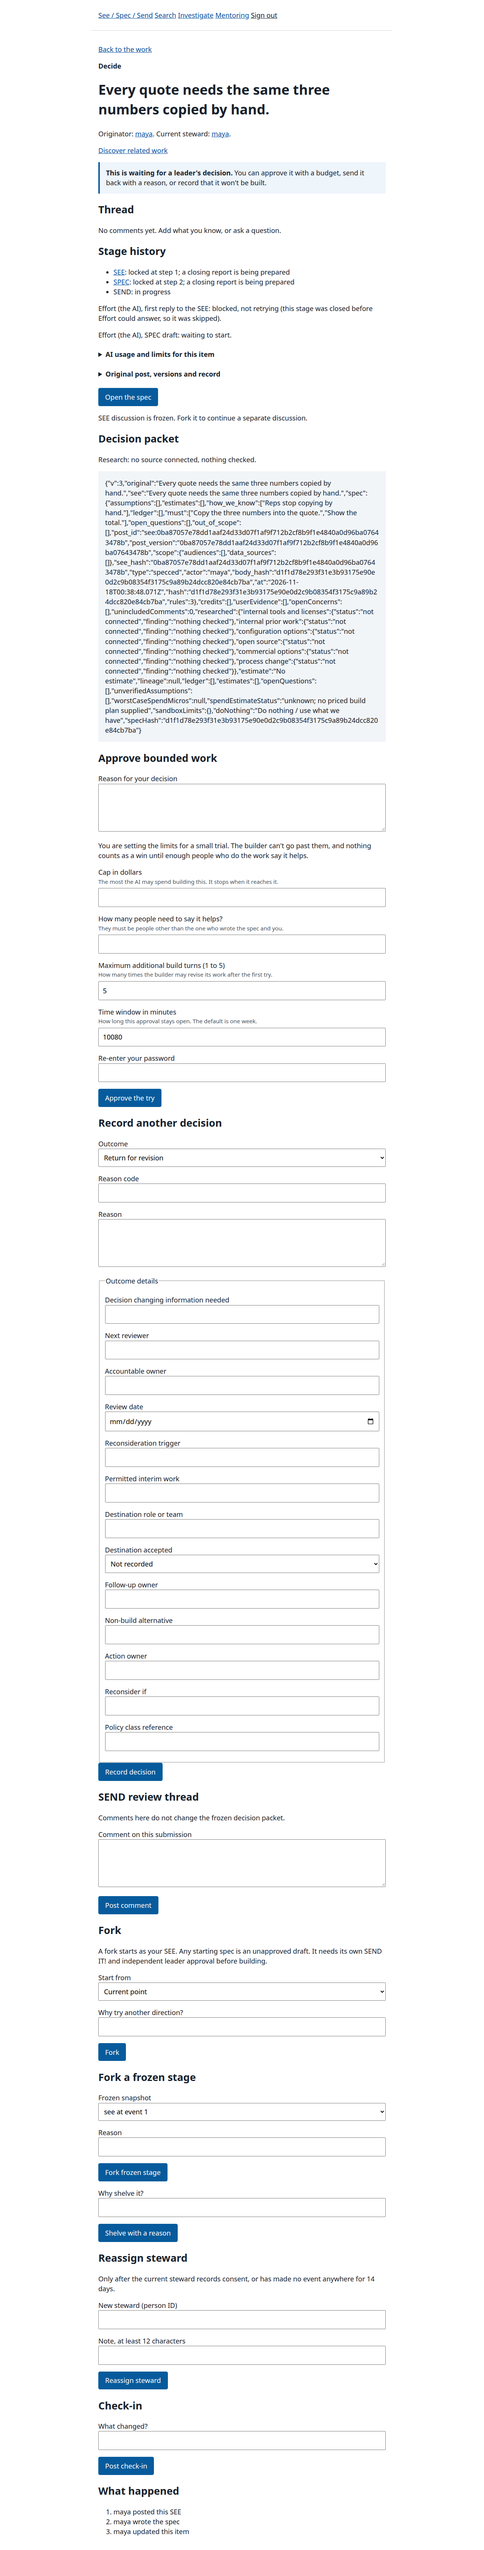
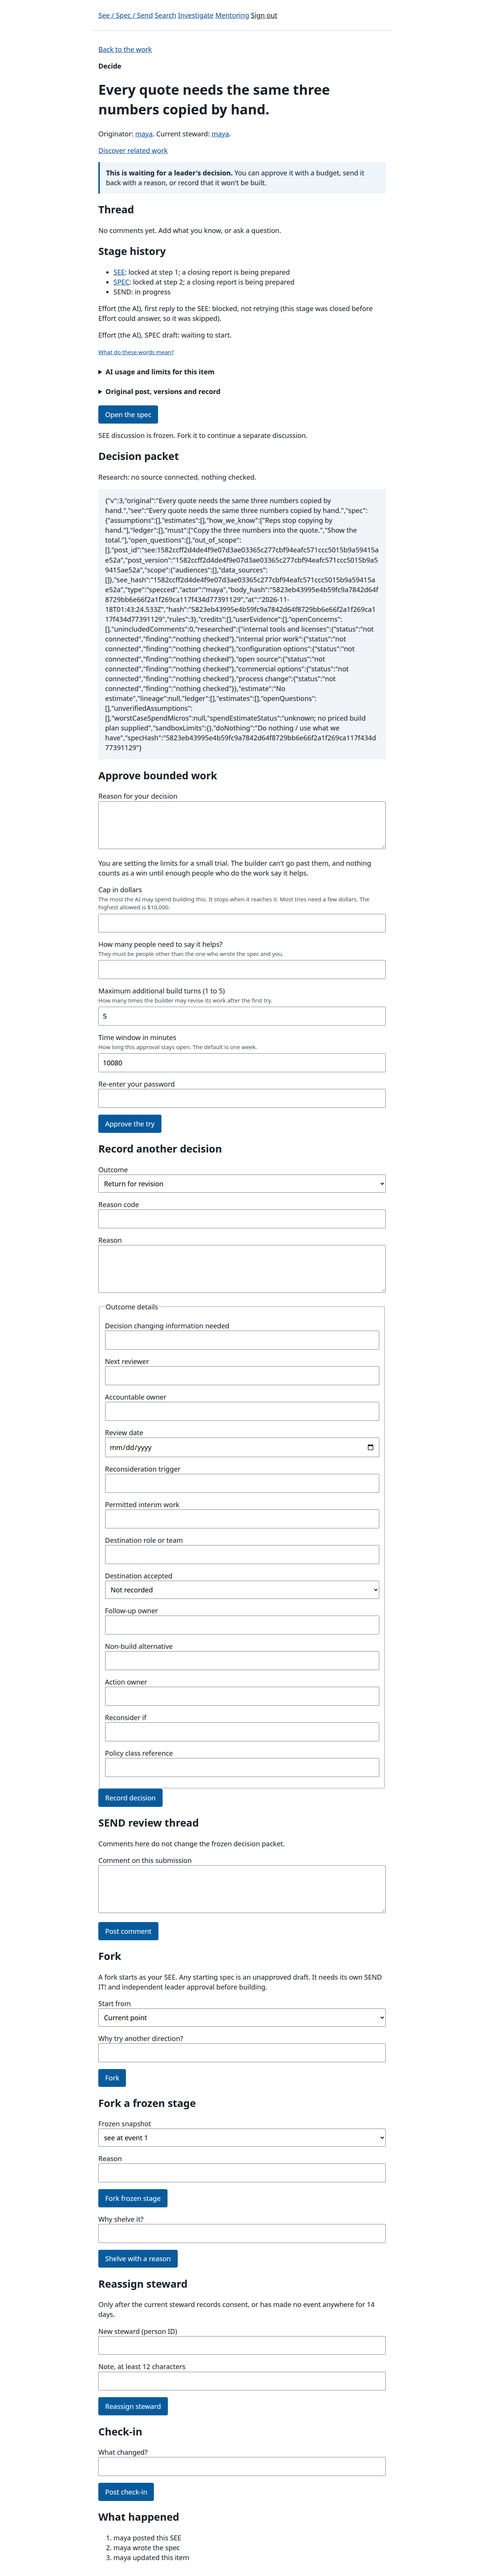
Plain glossary at /words linked from sign-in, item pages and README; the raw decision packet folds away; a demo GIF in the README; the journeys can run in Firefox; 2 mutants

Changed region(s): [[0.1875, 0.0, 0.7812, 0.9984]]

diff --git a/app/pages.js b/app/pages.js
@@ -62,10 +62,24 @@ export function renderEffortAllowance(allowance) {
   return allowance ? `<section><h2>Effort allowance remaining</h2><p>UTC day ${escape(allowance.day)}. ${allowance.enabled ? 'AI spending enabled.' : 'AI spending disabled or stopped.'}</p><p>You can request ${escape(allowance.mention_requests_person)} more mention replies; this item can accept ${escape(allowance.mention_requests_item)} more. Model calls for mentions and SPEC drafts: ${escape(allowance.on_demand_person)} remaining for you, ${escape(allowance.on_demand_item)} for this item. Automatic first replies: ${escape(allowance.automatic_person)} remaining for you, ${escape(allowance.automatic_item)} for this item.</p><p>Metered budget headroom, including charged holds: ${dollars(allowance.person_micros)} for your Effort calls today, ${dollars(allowance.day_micros)} shared today, ${dollars(allowance.global_micros)} shared overall. Queued work is not reserved yet. Request size, other queued calls, provider availability and money caps can still prevent a reply.</p></section>` : `<p>Effort daily limits: ${EFFORT_LIMITS.calls_per_person_day} mention replies per person, ${EFFORT_LIMITS.calls_per_item_day} per item. Startup replies have a separate limit of ${EFFORT_LIMITS.automatic_calls_per_person_day} per person, ${EFFORT_LIMITS.automatic_calls_per_item_day} per item. Remaining allowances are unavailable in this view. All replies still stop at the shared spend caps.</p>`;
 }
 
+export function wordsPage() {
+  return shell('What the words mean', `<h1>What the words mean</h1><dl class="words">
+<dt>SEE</dt><dd>The problem, in plain words, plus what you already checked.</dd>
+<dt>SPEC</dt><dd>What a fix has to do, and how everyone will know it worked.</dd>
+<dt>SEND</dt><dd>The request to try a small fix. A leader decides first, then the AI builds a small version for people to try.</dd>
+<dt>Effort</dt><dd>The AI that replies first. It's always labeled as AI, and it never decides anything.</dd>
+<dt>Steward</dt><dd>Whoever is responsible for the SEE and SPEC right now. Usually the person who posted it.</dd>
+<dt>Leader</dt><dd>Someone allowed to approve a try and set its budget. A leader can't approve their own spec.</dd>
+<dt>Cap</dt><dd>The most the AI may spend building one try. It stops when it reaches it.</dd>
+<dt>Helps</dt><dd>The only way something counts as a win. Enough people who do the work, and who didn't write the spec or approve it, say the try helped.</dd>
+<dt>Fork</dt><dd>A new branch from an old SEE, SPEC or try when someone disagrees. A fork starts with no approval.</dd>
+<dt>Shelved</dt><dd>Closed on purpose, with a written reason that stays on the record.</dd></dl><p><a href="/">Back</a></p>`, { signedOut: true });
+}
+
 export function signInPage({ oidc = false, password = true } = {}) {
   return shell(
     'Sign in',
-    `<h1>Sign in</h1><p class="intro">See / Spec / Send is a way for a team to fix the problems everyone already knows about. Someone posts the problem, writes what a fix has to do, and a leader decides. Nothing counts as done until the people who do the work say it helped.</p>${password ? '<form data-api="/api/login" data-next="/"><label>Your ID<input name="id" required autocomplete="username"></label><label>Password<input name="password" type="password" required autocomplete="current-password"></label><button>Sign in</button></form>' : ''}${oidc ? '<p><a class="button" href="/api/oidc/start">Sign in with your organization</a></p>' : ''}<p>New here? <a href="/redeem">Redeem an invite</a>.</p>`,
+    `<h1>Sign in</h1><p class="intro">See / Spec / Send is a way for a team to fix the problems everyone already knows about. Someone posts the problem, writes what a fix has to do, and a leader decides. Nothing counts as done until the people who do the work say it helped. <a href="/words">What do these words mean?</a></p>${password ? '<form data-api="/api/login" data-next="/"><label>Your ID<input name="id" required autocomplete="username"></label><label>Password<input name="password" type="password" required autocomplete="current-password"></label><button>Sign in</button></form>' : ''}${oidc ? '<p><a class="button" href="/api/oidc/start">Sign in with your organization</a></p>' : ''}<p>New here? <a href="/redeem">Redeem an invite</a>.</p>`,
     { signedOut: true },
   );
 }
@@ -259,7 +273,7 @@ export function itemPage(item, events, person, leader) {
   }
   // After approval the frozen packet stays readable to everyone, next to the written reason.
   const packetView = item.packet && ['SPECCED', 'SENDING', 'TRYING', 'HELPS'].includes(item.state)
-    ? `<section><h2>Decision packet</h2><pre>${escape(item.packet)}</pre></section>` : '';
+    ? `<section><details><summary>The exact record that was reviewed, for auditors</summary><pre>${escape(item.packet)}</pre></details></section>` : '';
   const shelve =
     !['HELPS', 'SHELVED'].includes(item.state) && (leader || context.steward === person)
       ? `<form data-event="shelved"><label>Why shelve it?<input name="reason" required></label><button>Shelve with a reason</button></form>`
@@ -357,7 +371,7 @@ export function itemPage(item, events, person, leader) {
     problem,
     handoffLink + updateSection + (context.rules === 3 && context.activePost ? `<span hidden data-active-post="${escape(context.activePost.id)}" data-post-version="${escape(context.activePost.version)}"></span>` : '') + '<p><a href="/">Back to the work</a></p>' +
       `<p class="stage">${context.rules === 3 && !context.activePost && context.phase === 'SPECCED' ? 'Branch frozen' : stages[item.state]}</p><h1>${escape(problem)}</h1><p>Originator: <a href="/people/${encodeURIComponent(context.originator || context.steward)}">${escape(context.originator || context.steward)}</a>. Current steward: <a href="/people/${encodeURIComponent(context.steward)}">${escape(context.steward)}</a>.</p><p><a href="/items/${encodeURIComponent(item.id)}/related">Discover related work</a></p>` +
-      `${['TRYING', 'HELPS'].includes(item.state) || context.helpers.length > 0 ? `<p>${progress({ helpers: context.helpers.length, quorum: context.quorum })}</p>` : ''}${reflection}${context.superseded ? `<p>This old approval is superseded. Update the spec, SEND IT!, and get a new leader approval.${context.supersededArtifact ? ' The delivered try is superseded and cannot receive new Helps votes.' : ''}</p>` : ''}${forkedFrom}${nextStepHtml}${commentBlock}${threadBlock}${stageHistory}${effortStatus}<details><summary>AI usage and limits for this item</summary>${effortAllowance}</details>${see}${forkDraft}${questMemo}${specSummary}${decision}${leash}${decisionHistory ? `<section><h2>Decision history</h2><ol>${decisionHistory}</ol></section>` : ''}${erasures ? `<section><h2>Erased content</h2><ol>${erasures}</ol></section>` : ''}${context.rules !== 3 || context.activePost?.kind === 'see' ? revise : '<p>SEE discussion is frozen. Fork it to continue a separate discussion.</p>'}${action}${packetView}${tryThread}${oldTryHistory}${instructions ? `<section><h2>Builder instructions</h2><ol>${instructions}</ol></section>` : ''}${fork}${context.rules === 3 && (item.stagePosts || []).some(post => post.closed_seq !== null) ? `<form data-fork-frozen="true"><h2>Fork a frozen stage</h2><label>Frozen snapshot<select name="from">${(item.stagePosts || []).filter(post => post.closed_seq !== null).map(post => `<option value="snapshot|${escape(post.post_id)}|${escape(post.snapshot_hash)}">${escape(post.kind)} at event ${escape(post.closed_seq)}</option>`).join('')}</select></label><label>Reason<input name="reason" required maxlength="2000"></label><button>Fork frozen stage</button></form>` : ''}${context.rules !== 3 || context.activePost ? shelve : ''}${context.rules !== 3 || context.activePost ? reassign + checkin : ''}${outcomeActions}` +
+      `${['TRYING', 'HELPS'].includes(item.state) || context.helpers.length > 0 ? `<p>${progress({ helpers: context.helpers.length, quorum: context.quorum })}</p>` : ''}${reflection}${context.superseded ? `<p>This old approval is superseded. Update the spec, SEND IT!, and get a new leader approval.${context.supersededArtifact ? ' The delivered try is superseded and cannot receive new Helps votes.' : ''}</p>` : ''}${forkedFrom}${nextStepHtml}${commentBlock}${threadBlock}${stageHistory}${effortStatus}<p><small><a href="/words">What do these words mean?</a></small></p><details><summary>AI usage and limits for this item</summary>${effortAllowance}</details>${see}${forkDraft}${questMemo}${specSummary}${decision}${leash}${decisionHistory ? `<section><h2>Decision history</h2><ol>${decisionHistory}</ol></section>` : ''}${erasures ? `<section><h2>Erased content</h2><ol>${erasures}</ol></section>` : ''}${context.rules !== 3 || context.activePost?.kind === 'see' ? revise : '<p>SEE discussion is frozen. Fork it to continue a separate discussion.</p>'}${action}${packetView}${tryThread}${oldTryHistory}${instructions ? `<section><h2>Builder instructions</h2><ol>${instructions}</ol></section>` : ''}${fork}${context.rules === 3 && (item.stagePosts || []).some(post => post.closed_seq !== null) ? `<form data-fork-frozen="true"><h2>Fork a frozen stage</h2><label>Frozen snapshot<select name="from">${(item.stagePosts || []).filter(post => post.closed_seq !== null).map(post => `<option value="snapshot|${escape(post.post_id)}|${escape(post.snapshot_hash)}">${escape(post.kind)} at event ${escape(post.closed_seq)}</option>`).join('')}</select></label><label>Reason<input name="reason" required maxlength="2000"></label><button>Fork frozen stage</button></form>` : ''}${context.rules !== 3 || context.activePost ? shelve : ''}${context.rules !== 3 || context.activePost ? reassign + checkin : ''}${outcomeActions}` +
       `<h2>What happened</h2><ol>${events.filter(event => event.type !== 'commented' && event.type !== 'revised').map(event => `<li>${eventWords(event)}</li>`).join('')}</ol>`,
   );
 }

diff --git a/app/http.js b/app/http.js
@@ -9,7 +9,7 @@ import { appendFileSync, readFileSync, statSync } from 'node:fs';
 import { join } from 'node:path';
 import { Integrations } from './integrations.js';
 import { handoffMarkdown, handoffPackage } from '../handoff/export.js';
-import { closeoutPage, feedPage, frozenPostPage, htmlHeaders, itemPage, newItemPage, passwordPage, questPage, redeemPage, signInPage } from './pages.js';
+import { closeoutPage, feedPage, frozenPostPage, htmlHeaders, itemPage, newItemPage, passwordPage, questPage, redeemPage, signInPage, wordsPage } from './pages.js';
 import { invalid, kindOf, refused, tooLarge as tooLargeError } from '../core/errors.js';
 import { redact } from '../provider/safe-http.js';
 import { CURRENT_RULES, validDateOnly } from '../core/machine.js';
@@ -455,6 +455,7 @@ export function createHandler({ auth, store, integrations, questModel = null, an
         res.setHeader('set-cookie', cookie(login.value));
         return json(res, 201, { csrf: login.csrf });
       }
+      if (req.method === 'GET' && url.pathname === '/words') return page(res, wordsPage());
       if (req.method === 'GET' && url.pathname === '/signin') return page(res, signInPage({ oidc: Boolean(auth.oidc), password: !disablePasswordLogin }));
       if (req.method === 'GET' && url.pathname === '/redeem') return page(res, redeemPage());
       if (req.method === 'POST' && url.pathname === '/api/logout') {

diff --git a/README.md b/README.md
@@ -6,6 +6,8 @@
 
 **Want to see it before you read about it?** [Try the demo](https://stevenammer.github.io/see-spec-send/). It runs in your browser, the people are made up, and nothing leaves your page. Click "Show me the rule being enforced" and watch it say no.
 
+![Clicking "Show me the rule being enforced" in the demo: the people who wrote or approved the spec try to say it helps, and are refused](docs/screens/demo-refusal.gif)
+
 ## Why I built this
 
 Everybody at work already knows the thing that's broken. The workaround has a name. Somebody has a spreadsheet for it. And nobody fixes it, because the people who feel it don't get to build anything, and the people who build things never feel it.
@@ -104,6 +106,8 @@ I write the specs and decide what's safe to ship. AI agents write most of the co
 The real-model tests were small and cheap: Claude Haiku 4.5 on Amazon Bedrock, a few dollars in total (the builder tests cost about $2.30), on made-up data. Nothing has run against real employee data, and none of the models you can plug in has been tested beyond that.
 
 ## Words used here
+
+(The app has the same list on a page of its own, at `/words`.)
 
 - **SEE, SPEC, SEND:** the three steps above. A SEE is the problem, a SPEC is what the fix must do, a SEND is the request to try it.
 - **Effort:** the AI that replies first. It's always labeled, and it never decides anything.
